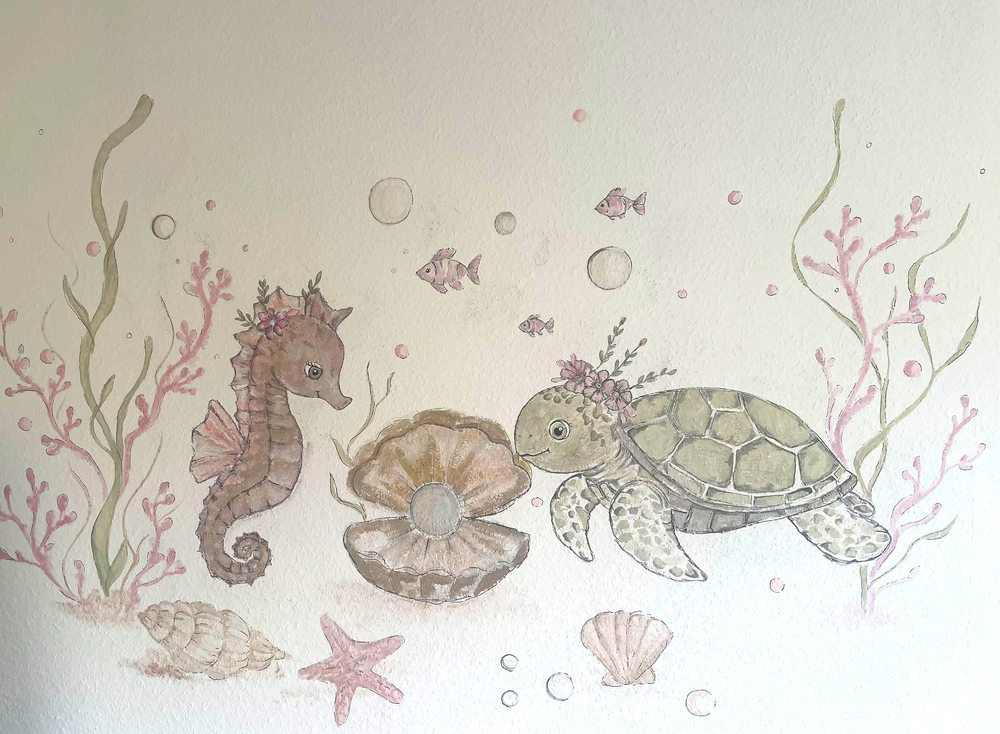
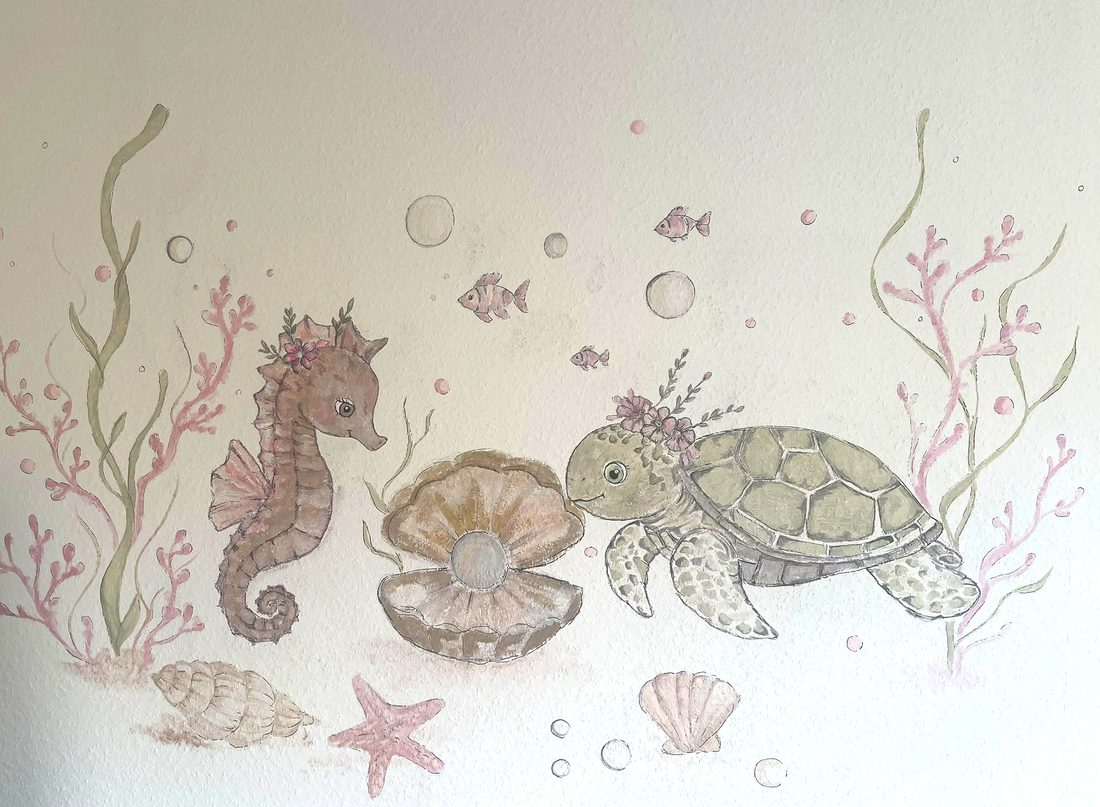
Hintergrundbild auf volle Bildschirmhöhe, Liste etwas tiefer

diff --git a/css/style.css b/css/style.css
@@ -67,7 +67,9 @@ main, footer { max-width: 760px; margin-inline: auto; padding-inline: 20px; }
   top: 0;
   left: 50%;
   transform: translateX(-50%);
-  width: min(100%, 1080px);
+  /* So groß wie möglich, aber nie höher als der Bildschirm:
+     1.3623 ist das Seitenverhältnis des Ausschnitts. Nichts wird beschnitten. */
+  width: min(100%, calc((100vh - 8px) * 1.3623), 1800px);
   z-index: -2;
   pointer-events: none;
   line-height: 0;
@@ -94,16 +96,26 @@ main, footer { max-width: 760px; margin-inline: auto; padding-inline: 20px; }
       rgba(250,245,239,.93) 0%,
       rgba(250,245,239,.90) 22%,
       rgba(250,245,239,.78) 34%,
-      rgba(250,245,239,.30) 45%,
-      rgba(250,245,239,.30) 70%,
+      rgba(250,245,239,.24) 45%,
+      rgba(250,245,239,.24) 72%,
       rgba(250,245,239,.68) 84%,
       var(--bg) 97%);
 }
 
 /* Je schmaler das Fenster, desto weniger Kopffreiheit hat das Bild –
    also rutscht es nach unten, damit der Text auf ruhigem Grund steht. */
-@media (max-width: 900px) { .page-art { top: clamp(30px, 7vw, 80px); } }
-@media (max-width: 640px) { .page-art { top: clamp(96px, 24vw, 150px); } }
+@media (max-width: 900px) {
+  .page-art {
+    top: clamp(30px, 7vw, 80px);
+    width: min(100%, calc((100vh - clamp(30px, 7vw, 80px) - 8px) * 1.3623));
+  }
+}
+@media (max-width: 640px) {
+  .page-art {
+    top: clamp(96px, 24vw, 150px);
+    width: 100%;   /* Hochformat, passt auf schmalen Displays ohnehin */
+  }
+}
 
 /* ---------- Kopfbereich: nur noch Titel und Kurzerklärung ---------- */
 
@@ -111,7 +123,7 @@ main, footer { max-width: 760px; margin-inline: auto; padding-inline: 20px; }
   position: relative;
   text-align: center;
   padding: clamp(34px, 5.5vw, 56px) 20px 0;
-  min-height: clamp(330px, 48vh, 470px);
+  min-height: clamp(385px, 58vh, 560px);
 }
 
 .hero-text {
@@ -182,8 +194,8 @@ main, footer { max-width: 760px; margin-inline: auto; padding-inline: 20px; }
 }
 
 .stat {
-  background: rgba(255,253,250,.86);
-  backdrop-filter: blur(7px);
+  background: rgba(255,253,250,.84);
+  backdrop-filter: blur(9px);
   border: 1px solid var(--border-soft);
   border-radius: var(--radius);
   box-shadow: var(--shadow);
@@ -336,8 +348,8 @@ button.linkish:hover { color: var(--rose); }
 }
 
 .panel {
-  background: rgba(255,253,250,.93);
-  backdrop-filter: blur(9px);
+  background: rgba(255,253,250,.92);
+  backdrop-filter: blur(10px);
   border: 1px solid var(--border-soft);
   border-radius: var(--radius);
   box-shadow: var(--shadow);
@@ -458,8 +470,8 @@ input[type=text]:focus, input[type=url]:focus, input[type=password]:focus {
   grid-template-columns: 92px 1fr auto;
   gap: 18px;
   align-items: center;
-  background: rgba(255,253,250,.90);
-  backdrop-filter: blur(9px);
+  background: rgba(255,253,250,.84);
+  backdrop-filter: blur(10px);
   border: 1px solid rgba(255,255,255,.7);
   border-radius: var(--radius);
   box-shadow: var(--shadow);
@@ -477,7 +489,7 @@ input[type=text]:focus, input[type=url]:focus, input[type=password]:focus {
 .wish.no-image { grid-template-columns: 1fr auto; }
 
 .wish.taken {
-  background: rgba(243,235,224,.88);
+  background: rgba(243,235,224,.82);
   box-shadow: var(--shadow-sm);
   border-color: var(--border);
 }
@@ -672,7 +684,7 @@ html.js .reveal.in {
    ========================================================================== */
 
 @media (max-width: 560px) {
-  .hero { min-height: clamp(330px, 48vh, 430px); padding-top: 30px; }
+  .hero { min-height: clamp(370px, 53vh, 480px); padding-top: 30px; }
 
   .summary { gap: 8px; margin-top: 26px; }
   .stat { padding: 14px 6px 12px; }

diff --git a/index.html b/index.html
@@ -10,7 +10,7 @@
 <link rel="preconnect" href="https://fonts.googleapis.com">
 <link rel="preconnect" href="https://fonts.gstatic.com" crossorigin>
 <link rel="stylesheet" href="https://fonts.googleapis.com/css2?family=Cormorant+Garamond:ital,wght@0,400;0,600;1,400&display=swap">
-<link rel="stylesheet" href="css/style.css?v=12">
+<link rel="stylesheet" href="css/style.css?v=14">
 </head>
 <body>
 
@@ -19,11 +19,11 @@
     <source media="(max-width: 640px)" type="image/webp" srcset="assets/wandbild-hoch.webp">
     <source media="(max-width: 640px)" srcset="assets/wandbild-hoch.jpg">
     <source type="image/webp"
-            srcset="assets/wandbild-small.webp 1000w, assets/wandbild.webp 1400w"
-            sizes="(min-width: 1120px) 1080px, 100vw">
+            srcset="assets/wandbild-small.webp 1100w, assets/wandbild.webp 1800w"
+            sizes="100vw">
     <img src="assets/wandbild.jpg"
-         srcset="assets/wandbild-small.jpg 1000w, assets/wandbild.jpg 1400w"
-         sizes="(min-width: 1120px) 1080px, 100vw"
+         srcset="assets/wandbild-small.jpg 1100w, assets/wandbild.jpg 1800w"
+         sizes="100vw"
          fetchpriority="high" decoding="async" alt="">
   </picture>
 </div>
@@ -135,7 +135,7 @@
   </div>
 </footer>
 
-<script src="js/config.js?v=12"></script>
-<script src="js/app.js?v=12"></script>
+<script src="js/config.js?v=14"></script>
+<script src="js/app.js?v=14"></script>
 </body>
 </html>
